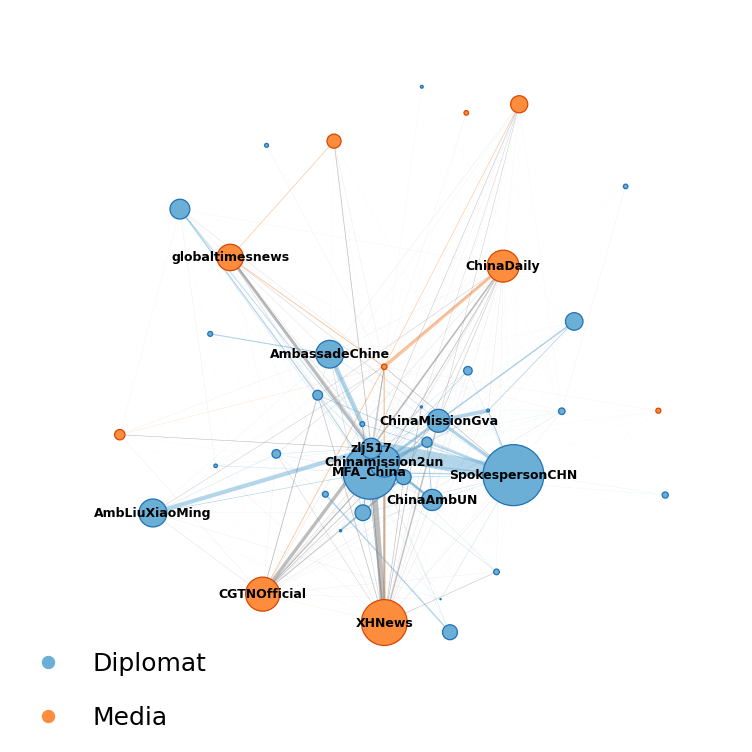
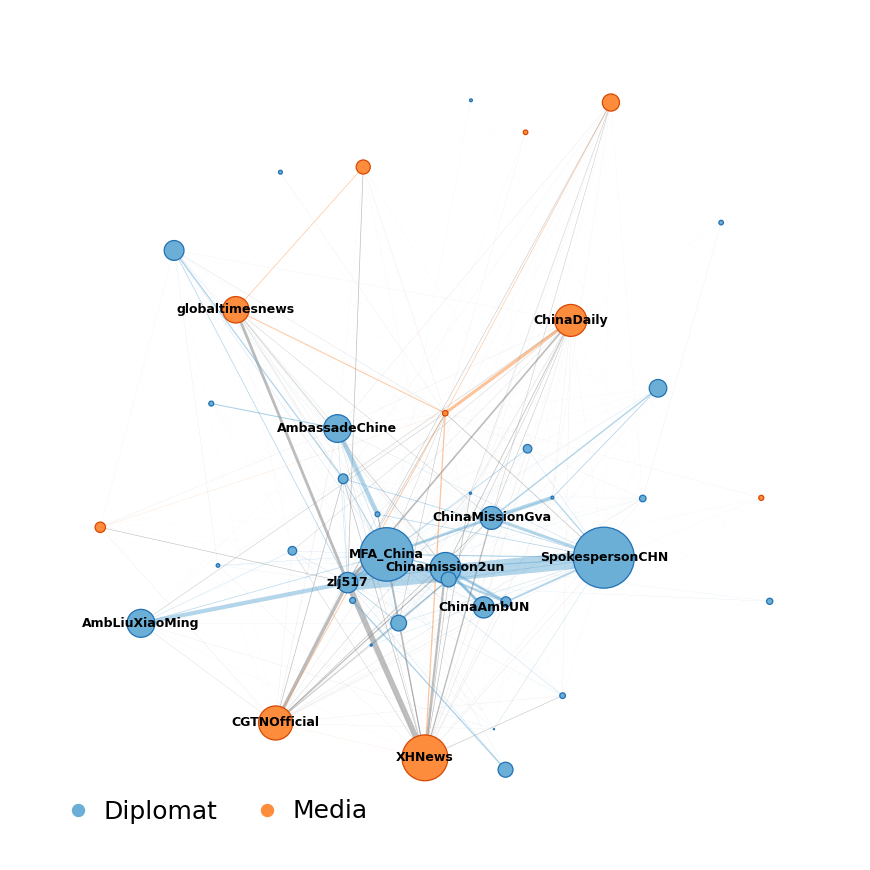
cleaning up networks and tweaks to visual layout

diff --git a/networks/src/network_main.py b/networks/src/network_main.py
@@ -46,12 +46,6 @@ def get_labels(G, type_str, type_lst, n_labels):
         'MFA_China',
         'zlj517',
         'AmbLiuXiaoMing'
-        #'PDChina', 
-        #'AmbLiuXiaoMing', 
-        #'AmbCuiTianKai',
-        #'HuXijin_GT',
-        #'CNS51952',
-        #'ChnEmbassy_jp'
     ]
     
     lst_sorted = sorted(type_lst, reverse=True)
@@ -161,9 +155,8 @@ def plot_network(G, nodelst, edgelst, color_dct, node_color, nodeedge_color, edg
     title: <str> plot title 
     filename: <str> filename 
     '''
-
-    # setup 
-    fig, ax = plt.subplots(figsize=(2.5, 2.5), dpi=300, facecolor='w', edgecolor='k')
+    # NEW CODE 
+    fig, ax = plt.subplots(figsize=(3, 3), dpi=300, facecolor='w', edgecolor='k')
     plt.axis("off")
 
     # position & manual tweaking
@@ -181,11 +174,17 @@ def plot_network(G, nodelst, edgelst, color_dct, node_color, nodeedge_color, edg
 
     # labels 
     label_options = {"edgecolor": "none", "facecolor": "white", "alpha": 0}
-    nx.draw_networkx_labels(G,pos,labels=labeldict,font_size=3, bbox=label_options, font_weight = 'bold')
+    nx.draw_networkx_labels(
+        G,
+        pos,
+        labels=labeldict,
+        font_size=3, 
+        bbox=label_options, 
+        font_weight = 'bold')
 
     # formatting & save
     lines, labels = get_legend(node_size, color_dct)
-    fig.legend(lines, labels, loc = 'lower left', labelspacing = 1.2, fontsize = 6, frameon = False)
+    fig.legend(lines, labels, bbox_to_anchor=[0.45, 0.12], labelspacing = 1, columnspacing = 1, fontsize = 6, frameon = False, ncol=2, handletextpad=0.01)
     plt.tight_layout()
     plt.savefig(f"{outfolder}/{filename}_seed{seed}_k{k}.png", bbox_inches='tight')
 
@@ -304,7 +303,7 @@ def main(n_labels, infile, outfolder):
     if infile == "/work/cn-some/china-twitter/networks/data/clean/df.csv": # have not pruned this yet
         print('nudging full data set')
         nudge_triple = [
-            ('MFA_China', 0.05, -0.05),
+            ('MFA_China', 0.09, -0.09), # 0.05, -0.05
             ('chenweihua', -0.03, 0.02),
             ('AmbassadeChine', 0, 0.05),
             ('CHN_UN_NY', -0.06, 0.6),
@@ -315,11 +314,11 @@ def main(n_labels, infile, outfolder):
         ]
     
     else:
-        nudge_triple = [ # nudge triple specifically for this data and seed
         print('nudging retweet data set')
+        nudge_triple = [ # nudge triple specifically for this data and seed
             ('consulat_de', -0.05, 0),
             ('Chinamission2un', 0.05, 0),
-            ('zlj517', -0.1, -0.05),
+            ('zlj517', -0.15, -0.1),
             ('chenweihua', 0.05, 0.1),
             ('SpokespersonCHN', 0.05, 0.05),
             ('AmbassadeChine', -0.05, 0.05),
